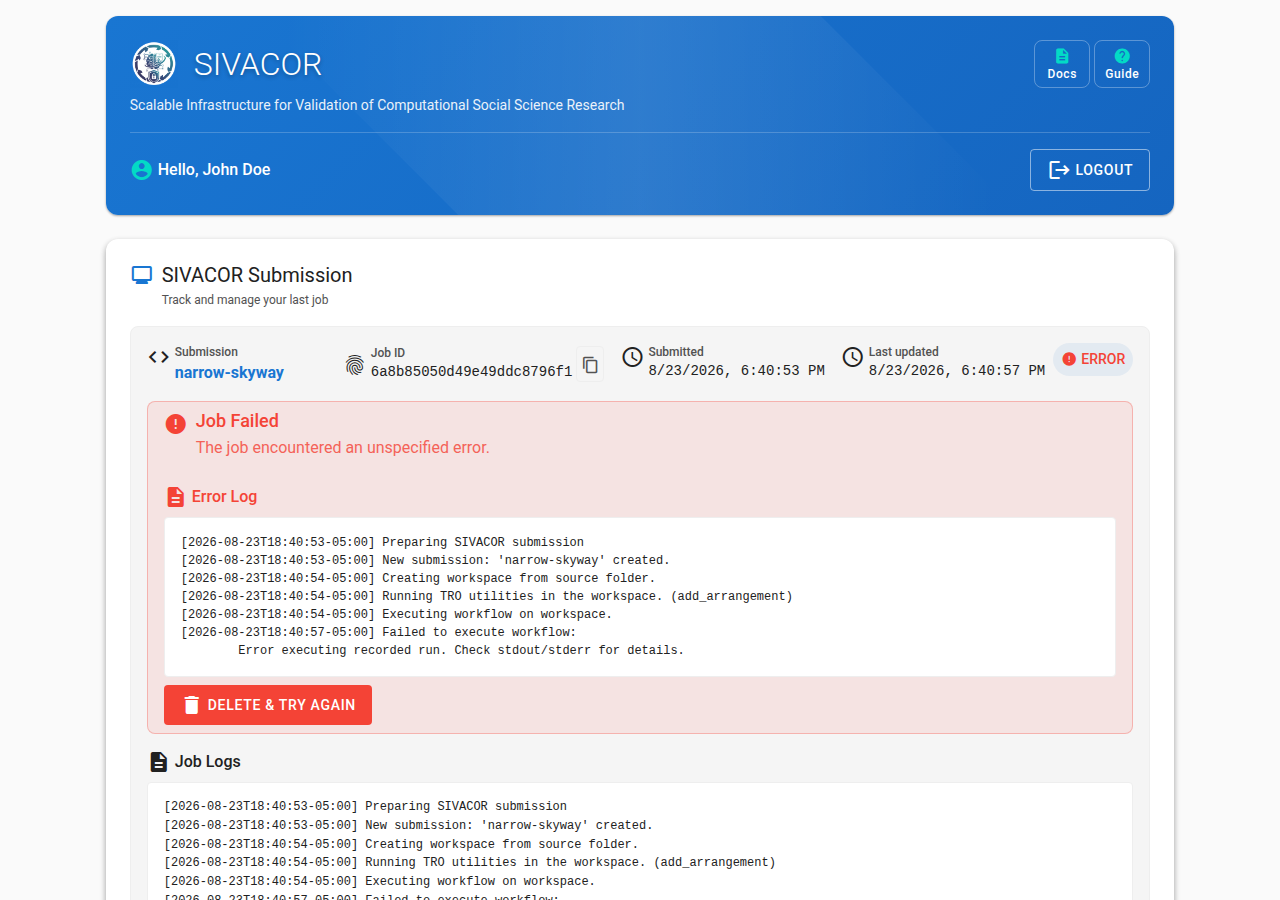
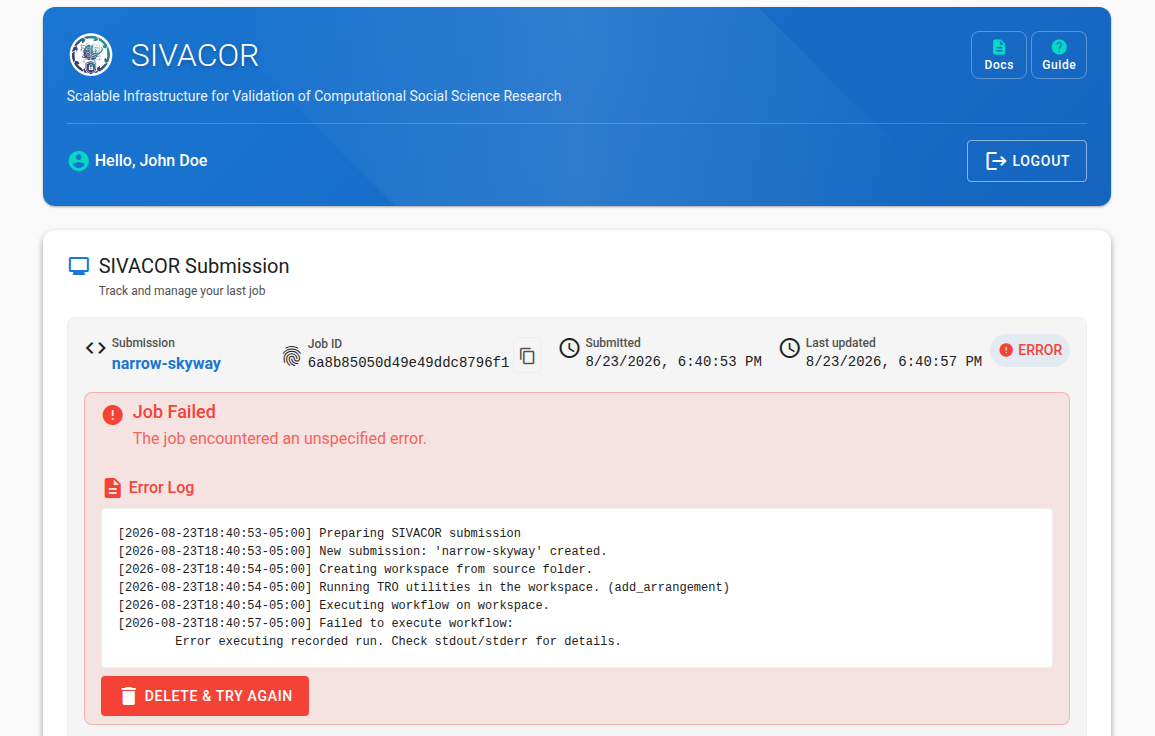
Adding screenshot for failed run

diff --git a/docs/step4-download.md b/docs/step4-download.md
@@ -12,32 +12,28 @@ You can now download the `Replicated Package`, a ZIP file that contains your ori
 
 ![SIVACOR output files](images/sivacor-downloadable-files.png)
 
-The same three TRACE files are also offered individually — `TRO Declaration`, `TRS Signature` and
-`Trusted Timestamp` — for anyone who wants to verify the signature without unpacking the whole
-archive. They are the same bytes that are inside the ZIP.
+The components can also be individually downloaded. 
 
-Alongside them are the `Run output log` (what your code wrote to standard output) and the
-`Run error log` (standard error). These are offered whether the run succeeded or failed.
-
-You can also download a `Workflow definition` — a small YAML file describing the software, versions and main files this run used. It is not part of the signed package; it is there so you (or a colleague) can reproduce the same setup later by importing it on the submission page, instead of filling the form in by hand (see
+You can also download a `Workflow definition` — a small YAML file describing the software, versions and main files this run used. It is not part of the signed . It can be used to reproduce the same setup later by importing it on the submission page, instead of filling the form in by hand (see
 [Optional chained runs](step2-choosing-image.md#chained-runs-steps)).
 
 ## After a failed run
 
-A run that failed produces no signed package — there is nothing to certify — so the `Replicated
-Package` and the three TRACE files are not offered. What you get is the **`Run output log`** and
-the **`Run error log`**, and those are where the reason is.
+![Failed run](images/sivacor-failed.png)
 
-Read the error log first: it names the command, file or package at fault. The
-[debugging guide](debugging.md) covers the common ones per software, and the
-[FAQ](faq.md#how-do-i-know-a-job-failed) covers failures that are not your package's doing, such as
-a lost worker.
+A failed run does not produce a signed package, only the **`Run output log`** and
+the **`Run error log`**. Download those to inspect the detailed reason for failure.
+
+![Log files](images/sivacor-failed-part2.png)
+
+Read the error log first: it will list the command, file or package at fault. The
+[debugging guide](debugging.md) covers  common ones per software. The
+[FAQ](faq.md#how-do-i-know-a-job-failed) also covers failures that are system faults, not package faults.
 
 :::{tip}
 
 Download both logs before starting a new run. **Starting a new run deletes the previous one**,
-logs included, and a failed run is usually the thing you most want to keep while you fix the
-package.
+logs included.
 
 :::
 
@@ -45,15 +41,14 @@ package.
 
 ::::{danger}
 
-SIVACOR only briefly retains your results (see [privacy policy](https://submit.sivacor.org/privacy)). To keep any results, you **must** download results as soon as possible.
+SIVACOR only briefly retains your results (see [privacy policy](https://submit.sivacor.org/privacy)). To keep your own results, you **must** download results.
 
 ::::
 
 ::::{danger}
 
 
-**Starting a new run deletes the previous one.** By clicking the button  `Delete & Run New Job`  you are asked to confirm. Deletion is immediate.
-This is also how you delete results without waiting for the 14 days to run out.
+**Starting a new run deletes the previous one.** By clicking the button  `Delete & Run New Job`,  the system implements what the button says. There is no recovery. (Runs are also deleted after 14 days of inactivity.)
 
 ::::
 
